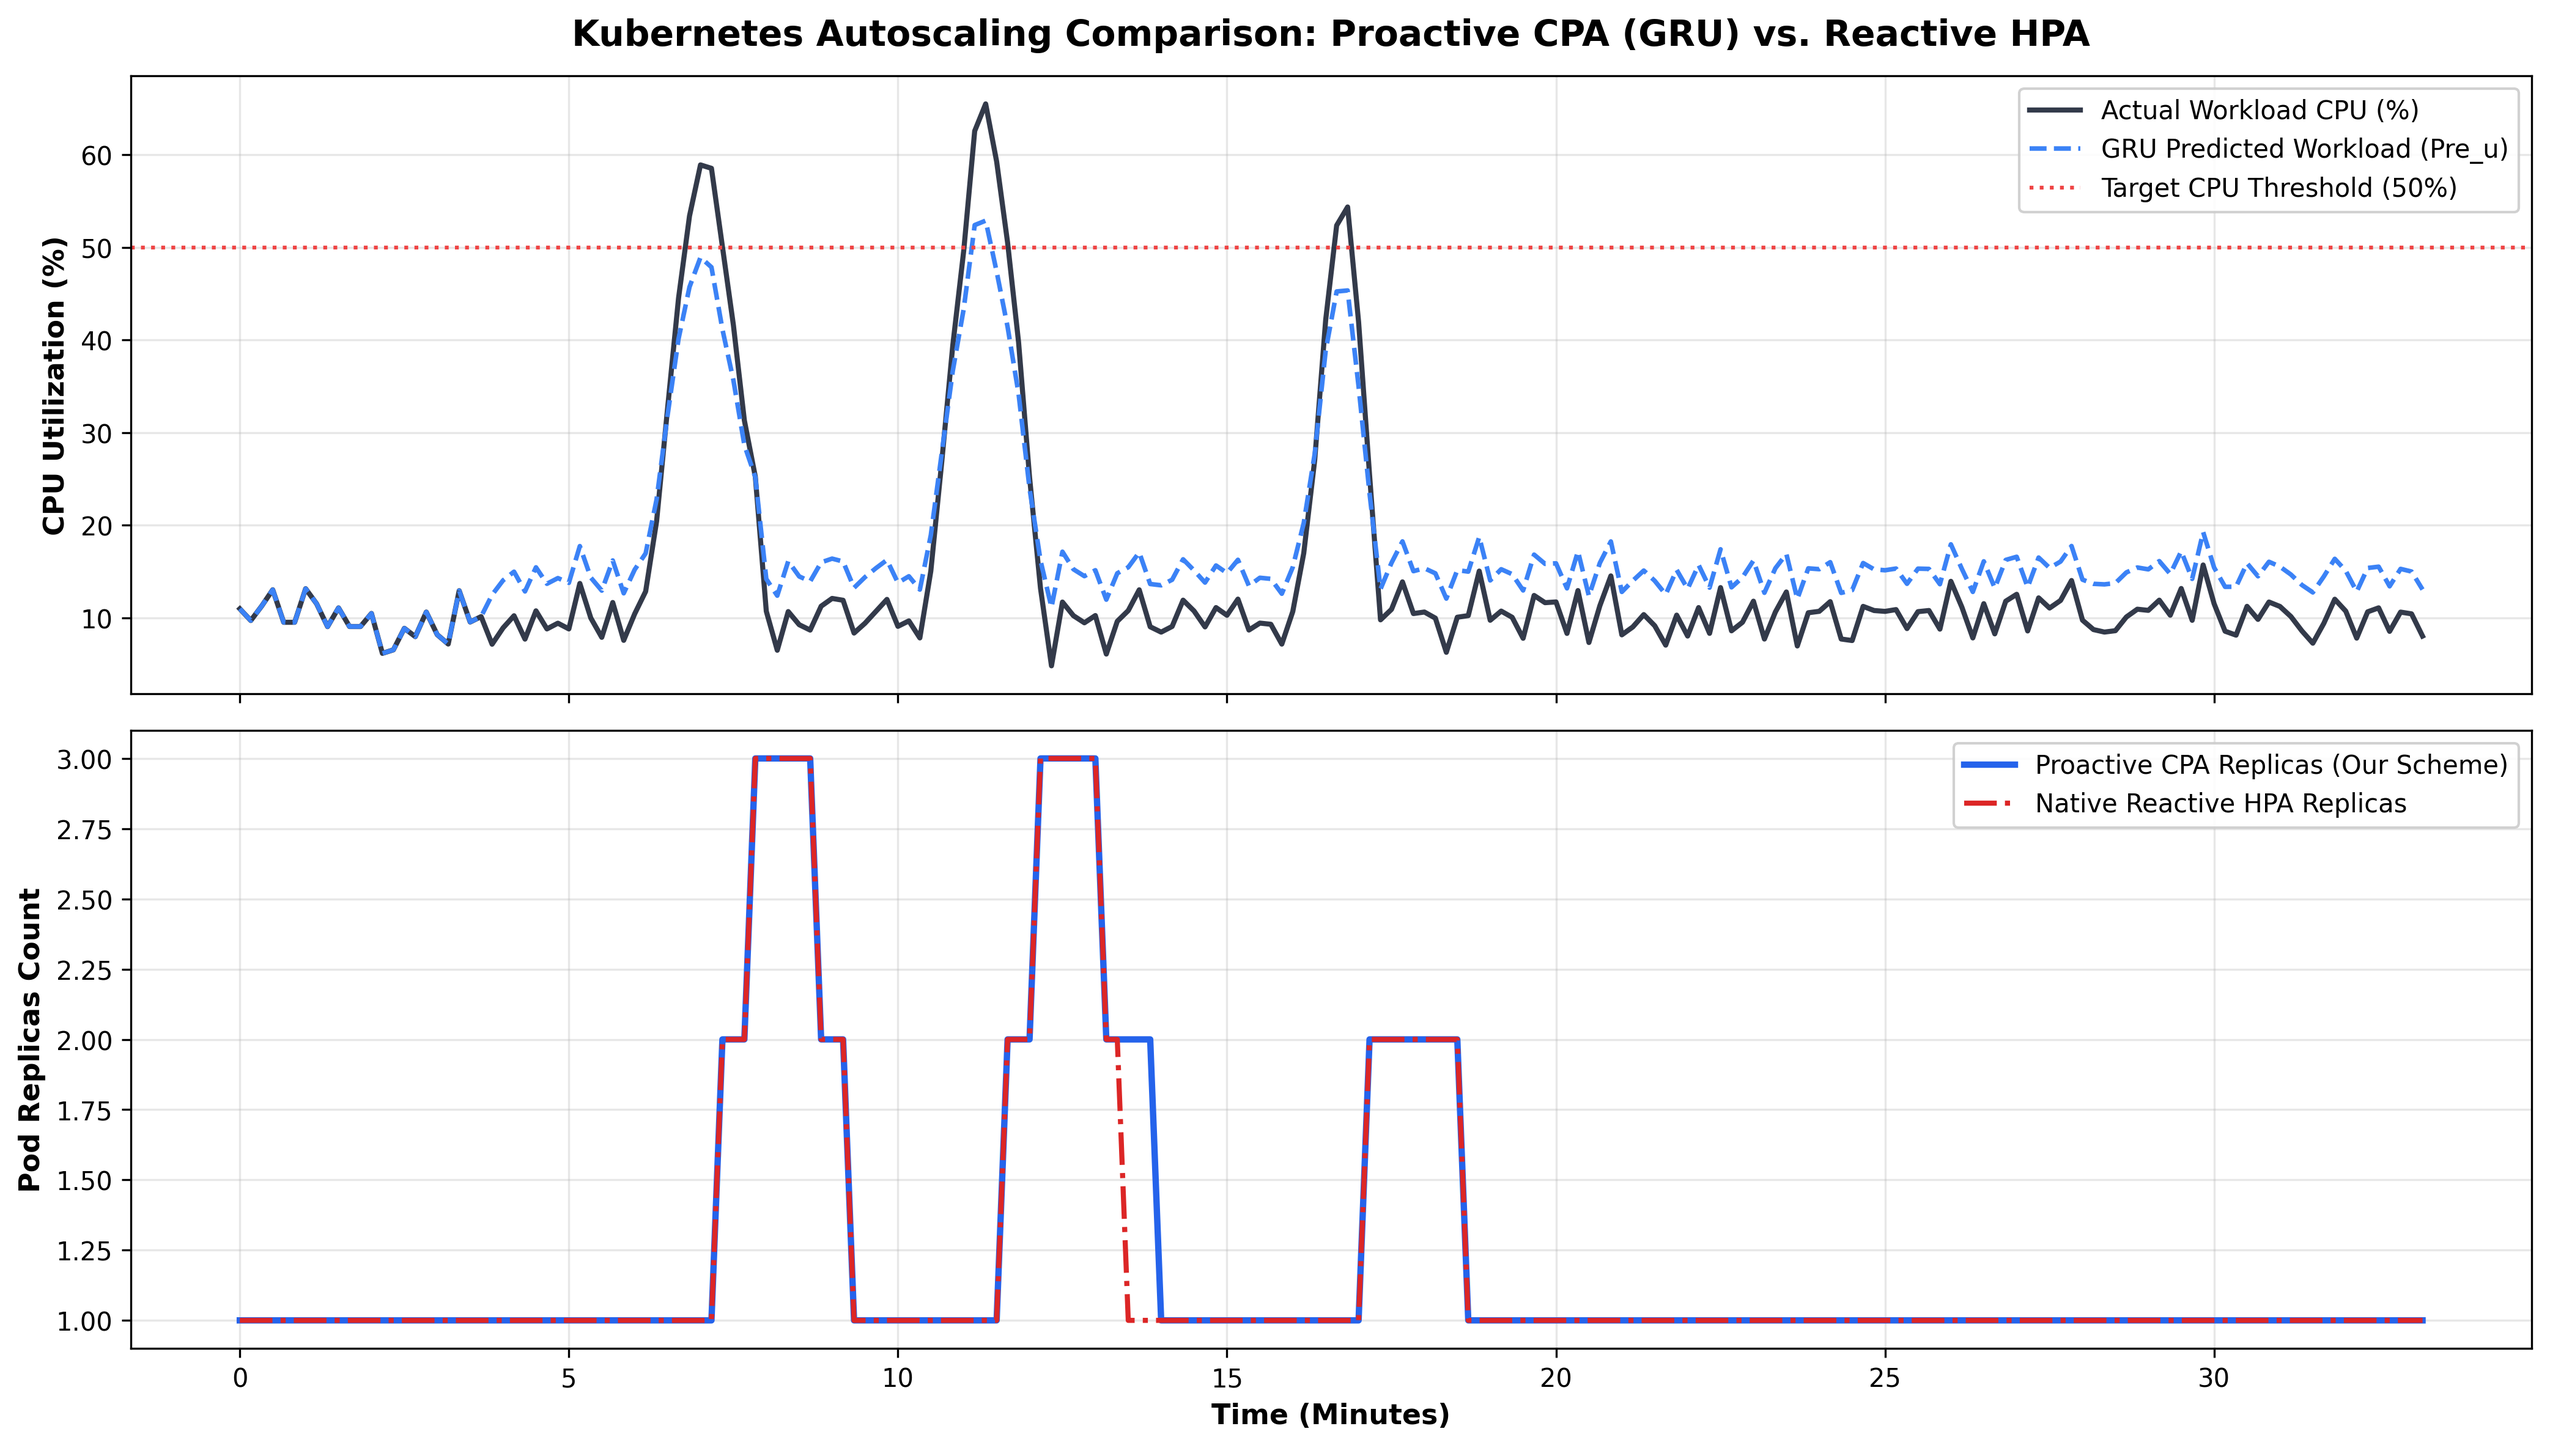
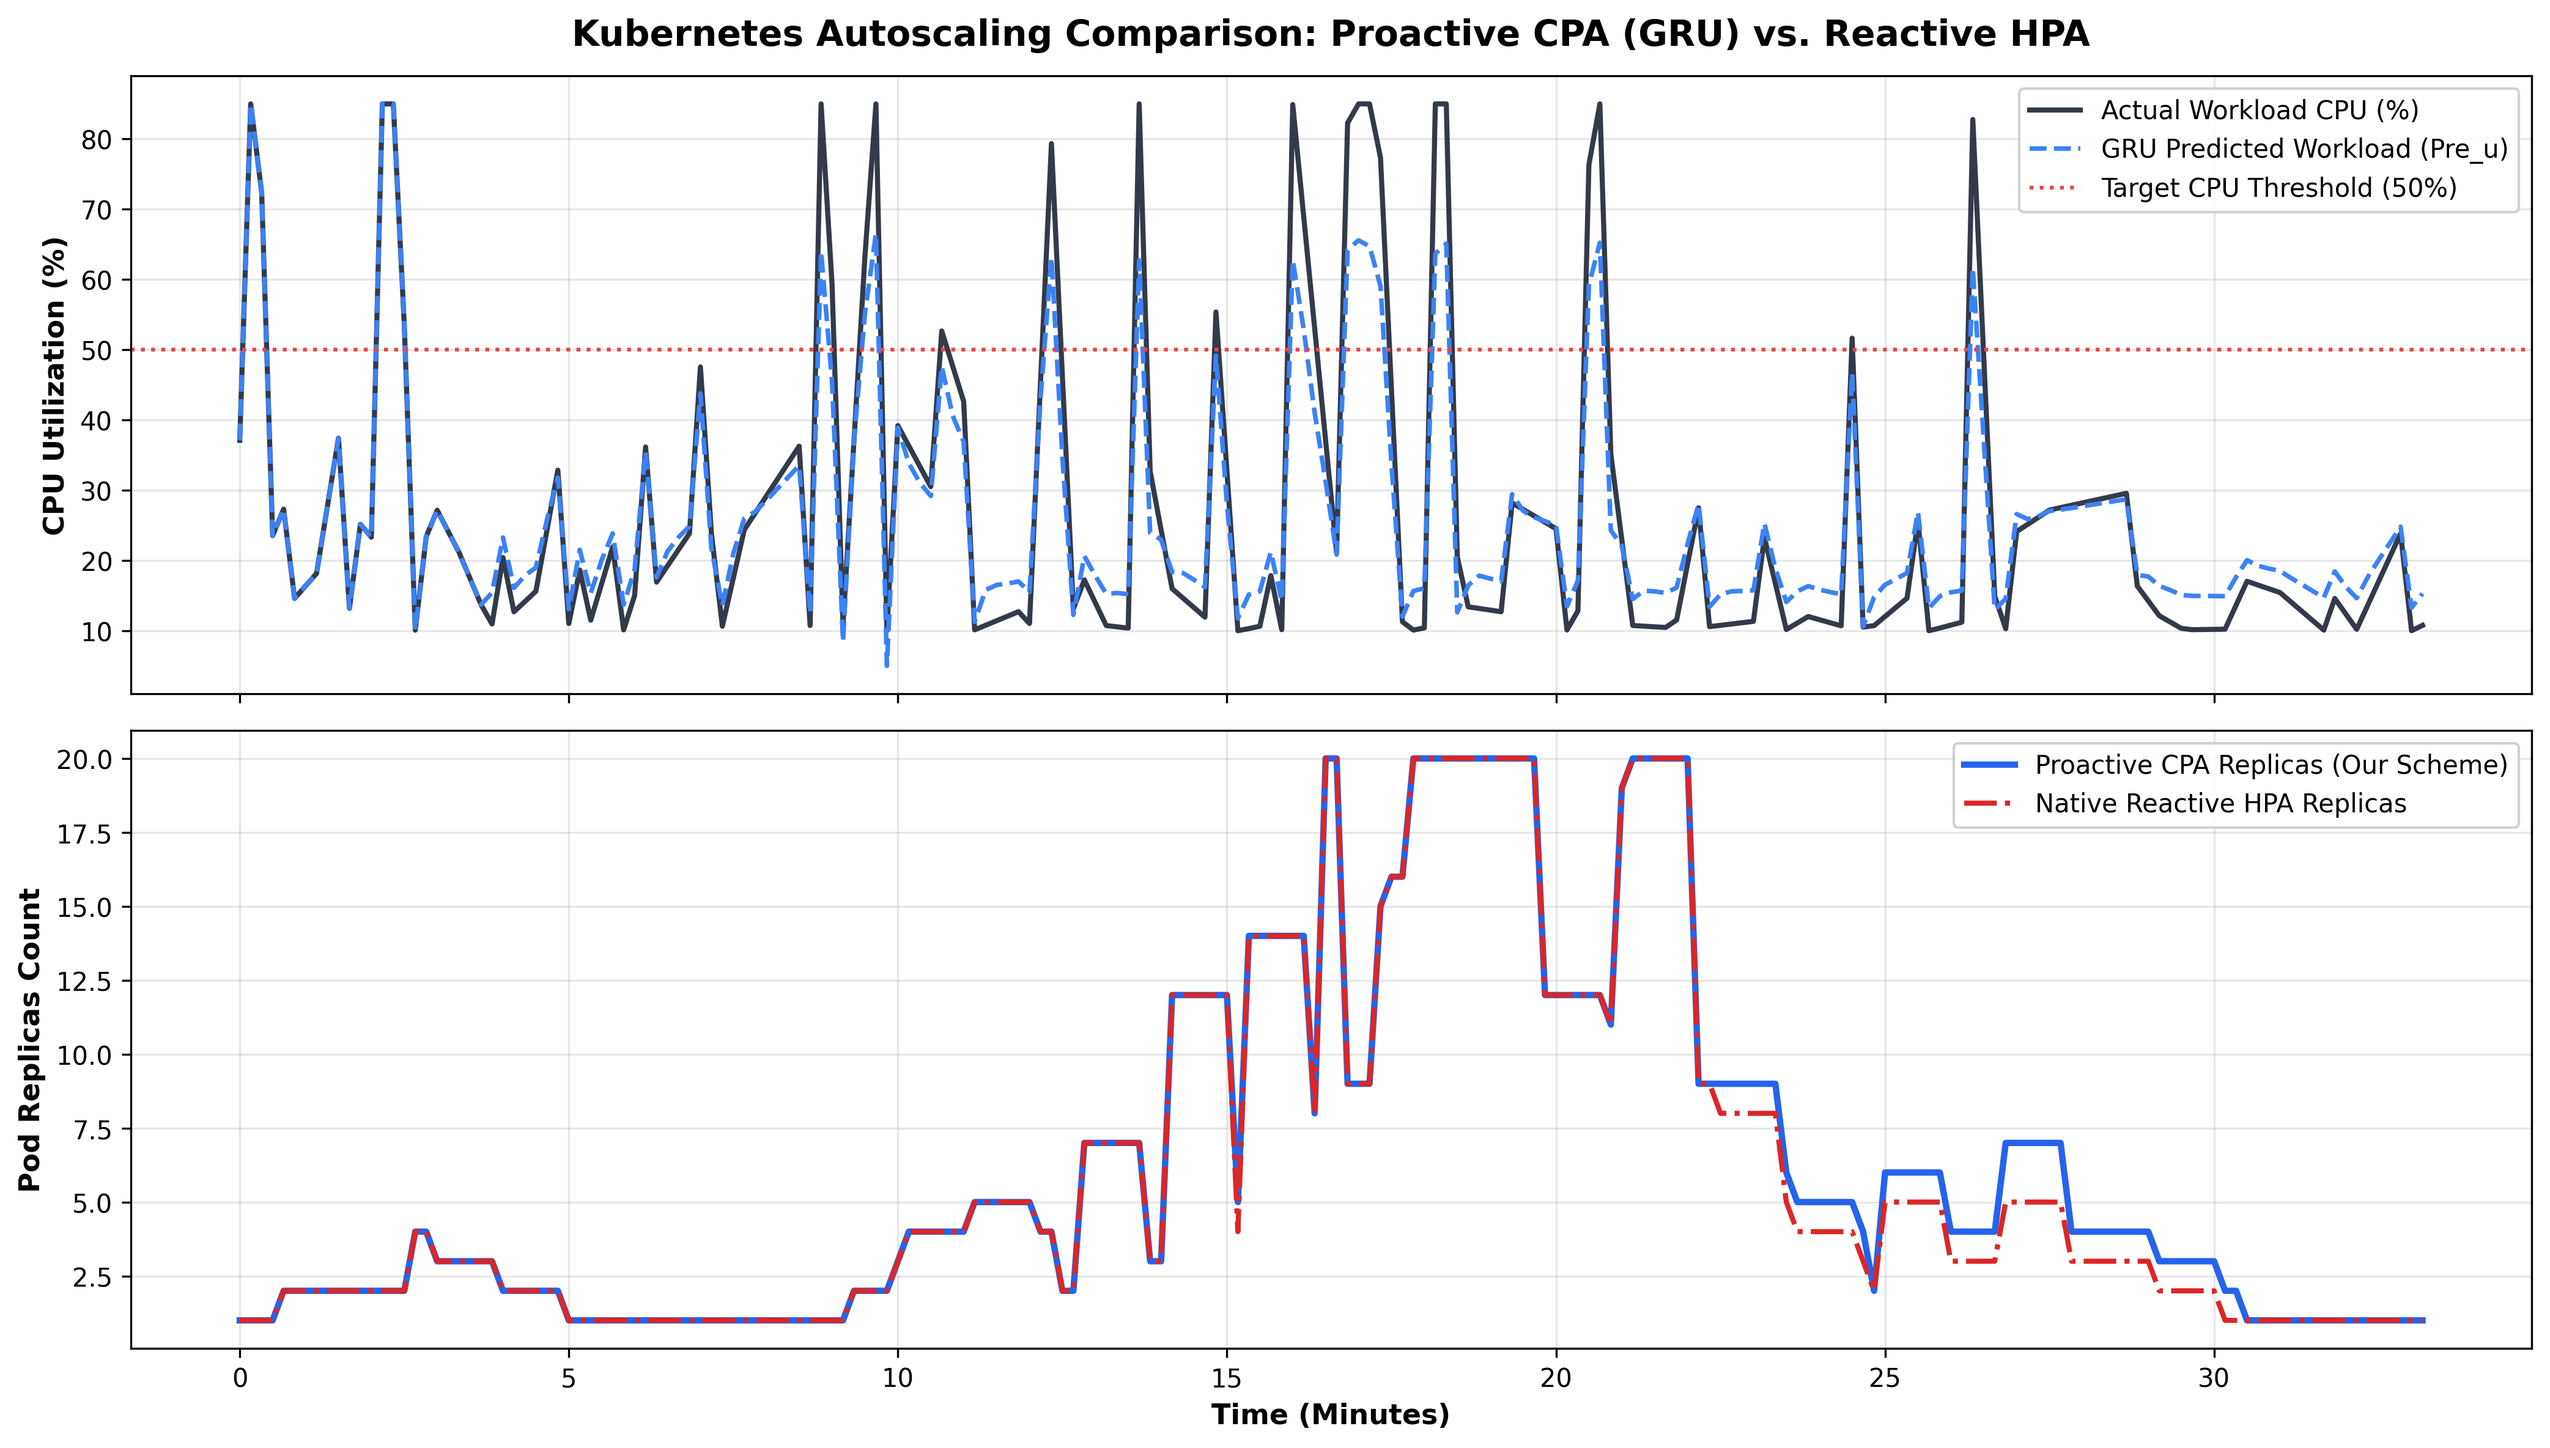
Remove synthetic generator, benchmark all models on real Borg trace, and save evaluation results

diff --git a/sim/simulate_autoscaling.py b/sim/simulate_autoscaling.py
@@ -23,8 +23,9 @@ root_dir = os.path.abspath(os.path.join(current_dir, ".."))
 sys.path.insert(0, os.path.join(root_dir, "k8s-metrics-cpu"))
 sys.path.insert(0, root_dir)
 
-from data.generate_synthetic_trace import generate_workload_trace
+# pyrefly: ignore [missing-import]
 from db import MetricsDatabase
+# pyrefly: ignore [missing-import]
 from evaluate import evaluate_scaling
 
 
@@ -210,22 +211,37 @@ class AutoscalingSimulator:
         return report
 
 
+def load_workload_trace(
+    n_points: int = 200,
+    dataset_path: str = "data/borg_processed_timeseries.csv"
+) -> np.ndarray:
+    """Loads CPU trace from real Borg dataset or generates fallback trace."""
+    if os.path.exists(dataset_path):
+        print(f"Loading real Google Borg workload trace from {dataset_path}...")
+        df = pd.read_csv(dataset_path)
+        col = "cpu_rate" if "cpu_rate" in df.columns else ("cpu_utilization" if "cpu_utilization" in df.columns else df.columns[-1])
+        series = df[col].values
+        # Take a dynamic 200-point slice containing active load changes
+        start = min(500, len(series) - n_points)
+        segment = series[start:start + n_points].astype(float)
+        if np.max(segment) <= 1.0:
+            segment = segment * 100.0
+        return segment
+    else:
+        print("Borg dataset not found; generating realistic wave with spikes...")
+        t = np.linspace(0, 4 * np.pi, n_points)
+        base = 30.0 + 20.0 * np.sin(t)
+        base[40:55] += 35.0
+        base[120:135] += 40.0
+        return np.clip(base, 5.0, 95.0)
+
+
 def run_simulation(
     n_points: int = 200,
     step_sec: int = 10,
     output_path: str = "docs/plots/scaling_comparison.png"
 ):
-    print("Generating simulated cluster workload trace with sudden burst spikes...")
-    trace_df = generate_workload_trace(
-        n_points=n_points,
-        interval_sec=step_sec,
-        base_load=0.30,
-        diurnal_amp=0.20,
-        noise_std=0.02,
-        n_spikes=3,
-        spike_amp_range=(0.4, 0.6)
-    )
-    cpu_stream = trace_df["cpu_rate"].values * 100.0
+    cpu_stream = load_workload_trace(n_points=n_points)
 
     print(f"Running autoscaling simulation across {n_points} time steps...")
     sim = AutoscalingSimulator(target_cpu_threshold=50.0)

diff --git a/model/evaluate.py b/model/evaluate.py
@@ -24,7 +24,6 @@ from torch.utils.data import TensorDataset, DataLoader
 sys.path.insert(0, os.path.abspath(os.path.join(os.path.dirname(__file__), "..")))
 
 from data.dataset_loader import WorkloadDataLoader
-from data.generate_synthetic_trace import generate_multiple_machine_traces
 from model.gru_model import GRUWorkloadPredictor, GRUInferenceEngine, export_model_to_torchscript
 from model.baseline_models import LSTMWorkloadPredictor, BiLSTMWorkloadPredictor, ARIMAPredictor
 
@@ -52,7 +51,11 @@ def evaluate_all_models(
     test_samples_cap: int = 500
 ):
     if not os.path.exists(dataset_path):
-        generate_multiple_machine_traces(n_machines=5, output_path=dataset_path)
+        fallback = "data/borg_processed_timeseries.csv"
+        if os.path.exists(fallback):
+            dataset_path = fallback
+        else:
+            raise FileNotFoundError(f"Dataset not found at '{dataset_path}'")
 
     loader = WorkloadDataLoader(window_size=window_size)
     X_train, y_train, X_val, y_val, X_test, y_test = loader.load_and_preprocess_csv(dataset_path)
@@ -176,6 +179,23 @@ def evaluate_all_models(
     print("=" * 90)
     print(df_res.to_string(index=False))
     print("=" * 90)
+
+    # Save results to docs/evaluation_results.csv and docs/evaluation_results.md
+    os.makedirs("docs", exist_ok=True)
+    csv_path = "docs/evaluation_results.csv"
+    md_path = "docs/evaluation_results.md"
+    df_res.to_csv(csv_path, index=False)
+    try:
+        with open(md_path, "w") as f:
+            f.write("# Empirical Evaluation Results (Table 3 Replication)\n\n")
+            f.write(df_res.to_markdown(index=False))
+            f.write("\n")
+    except Exception:
+        with open(md_path, "w") as f:
+            f.write("# Empirical Evaluation Results (Table 3 Replication)\n\n")
+            f.write(df_res.to_string(index=False))
+            f.write("\n")
+    print(f"\nSaved benchmark results to:\n - {csv_path}\n - {md_path}")
     return df_res
 
 

diff --git a/tests/test_data_pipeline.py b/tests/test_data_pipeline.py
@@ -1,22 +1,18 @@
-"""
-Unit tests for data generation and preprocessing pipeline.
-"""
-
 import os
 import tempfile
 import numpy as np
+import pandas as pd
 import pytest
-from data.generate_synthetic_trace import generate_workload_trace, generate_multiple_machine_traces
 from data.dataset_loader import WorkloadDataLoader
 
 
-def test_generate_workload_trace():
-    df = generate_workload_trace(n_points=100, interval_sec=300, seed=42)
-    assert len(df) == 100
+def test_borg_dataset_loader():
+    borg_path = os.path.abspath(os.path.join(os.path.dirname(__file__), "..", "data", "borg_processed_timeseries.csv"))
+    assert os.path.exists(borg_path), f"Processed Borg dataset not found at {borg_path}"
+    df = pd.read_csv(borg_path)
+    assert len(df) >= 100
     assert "cpu_rate" in df.columns
-    assert "memory_rate" in df.columns
     assert (df["cpu_rate"] >= 0.0).all() and (df["cpu_rate"] <= 1.0).all()
-    assert (df["memory_rate"] >= 0.0).all() and (df["memory_rate"] <= 1.0).all()
 
 
 def test_sliding_window_dimensions():
@@ -55,7 +51,8 @@ def test_scaler_persistence():
 def test_train_val_test_split():
     with tempfile.TemporaryDirectory() as tmpdir:
         csv_file = os.path.join(tmpdir, "test_cluster.csv")
-        generate_multiple_machine_traces(n_machines=2, n_points=500, output_path=csv_file)
+        df = pd.DataFrame({"cpu_rate": np.linspace(0.1, 0.9, 500)})
+        df.to_csv(csv_file, index=False)
 
         loader = WorkloadDataLoader(window_size=24)
         X_train, y_train, X_val, y_val, X_test, y_test = loader.load_and_preprocess_csv(csv_file)

diff --git a/model/train.py b/model/train.py
@@ -23,12 +23,11 @@ from torch.utils.data import TensorDataset, DataLoader
 sys.path.insert(0, os.path.abspath(os.path.join(os.path.dirname(__file__), "..")))
 
 from data.dataset_loader import WorkloadDataLoader
-from data.generate_synthetic_trace import generate_multiple_machine_traces
 from model.gru_model import GRUWorkloadPredictor, export_model_to_torchscript, export_model_to_onnx
 
 
 def train_gru_model(
-    dataset_path: str = "data/sample_cluster_data.csv",
+    dataset_path: str = "data/borg_processed_timeseries.csv",
     output_dir: str = "model/saved_models",
     window_size: int = 24,
     epochs: int = 50,
@@ -41,10 +40,13 @@ def train_gru_model(
     """
     os.makedirs(output_dir, exist_ok=True)
 
-    # 1. Check / Generate Dataset
+    # 1. Check Dataset
     if not os.path.exists(dataset_path):
-        print(f"Dataset not found at '{dataset_path}'. Generating synthetic trace...")
-        generate_multiple_machine_traces(n_machines=10, output_path=dataset_path)
+        fallback = "data/borg_processed_timeseries.csv"
+        if os.path.exists(fallback):
+            dataset_path = fallback
+        else:
+            raise FileNotFoundError(f"Dataset not found at '{dataset_path}'")
 
     # 2. Data Loading & Preprocessing
     loader = WorkloadDataLoader(window_size=window_size, target_col="cpu_rate")

diff --git a/docs/evaluation_results.md b/docs/evaluation_results.md
@@ -1,0 +1,7 @@
+# Empirical Evaluation Results (Table 3 Replication)
+
+         Model Step Size     MSE    RMSE     MAE      R2 Training Time (s) Prediction Latency (ms)
+GRU (Proposed)  24 Steps 0.03142 0.17726 0.11715  0.5703             13.27                    0.03
+          LSTM  24 Steps 0.03117 0.17655 0.11870  0.5737              6.90                    0.04
+        BiLSTM  24 Steps 0.03076 0.17539 0.11692  0.5793             21.81                    0.06
+         ARIMA         - 0.03578 0.18916 0.11280 -0.6508                 -                  262.70
